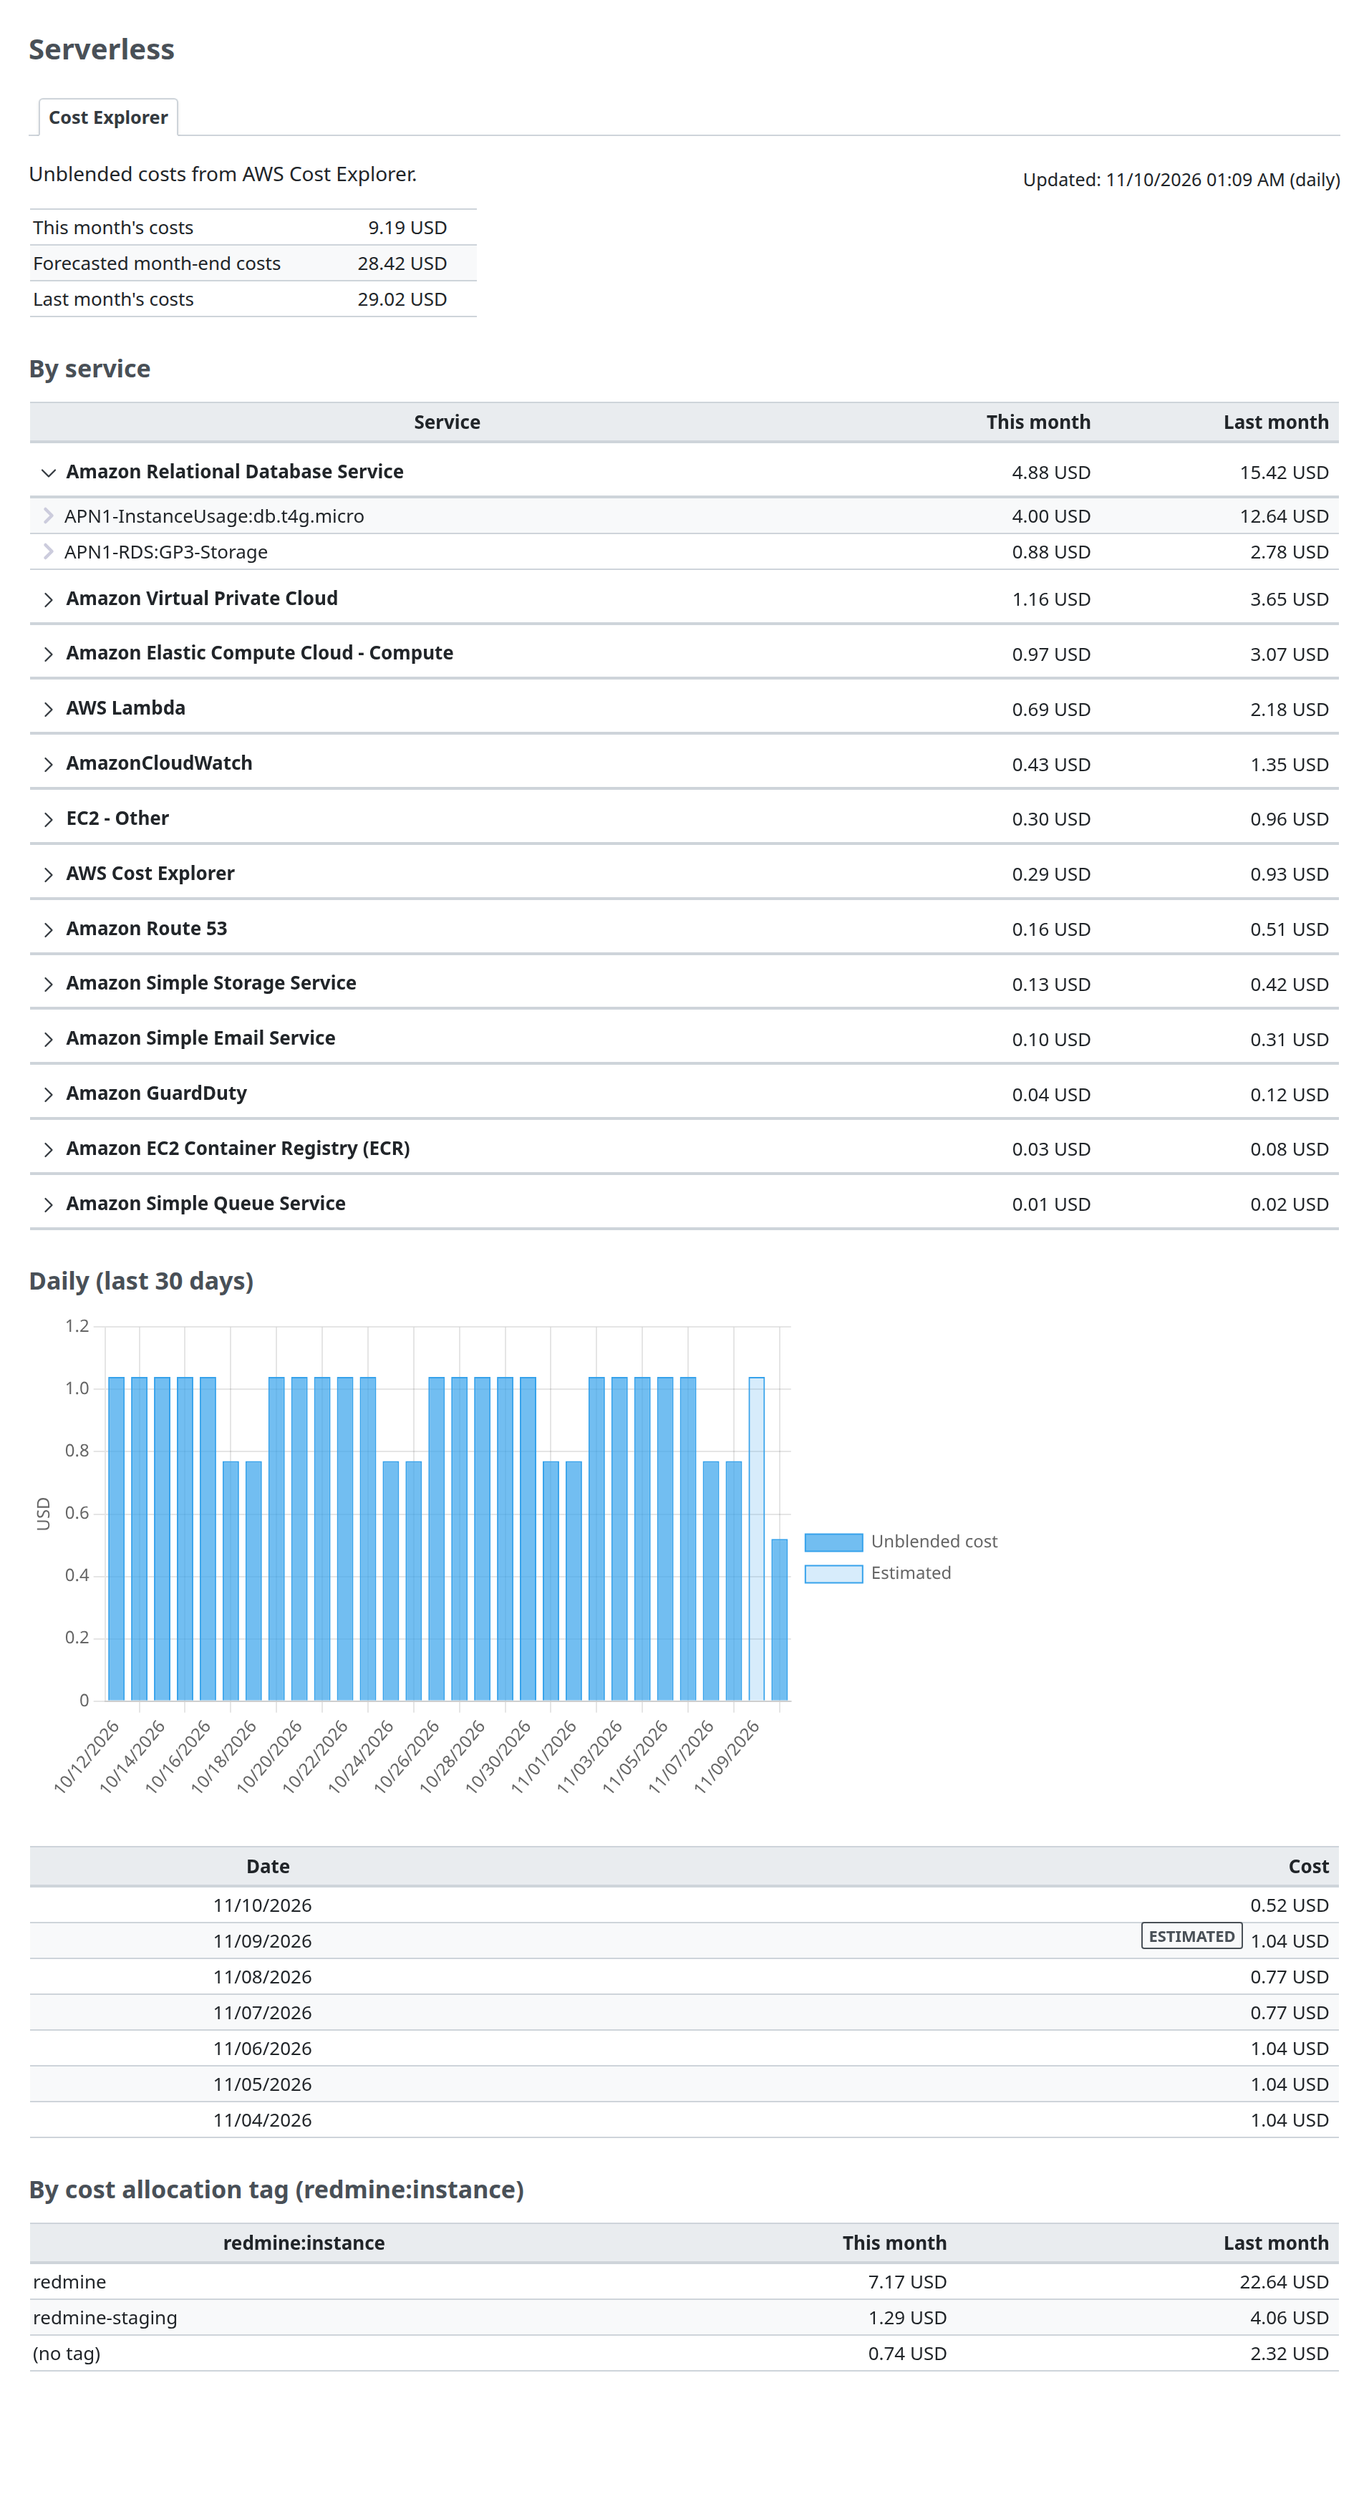
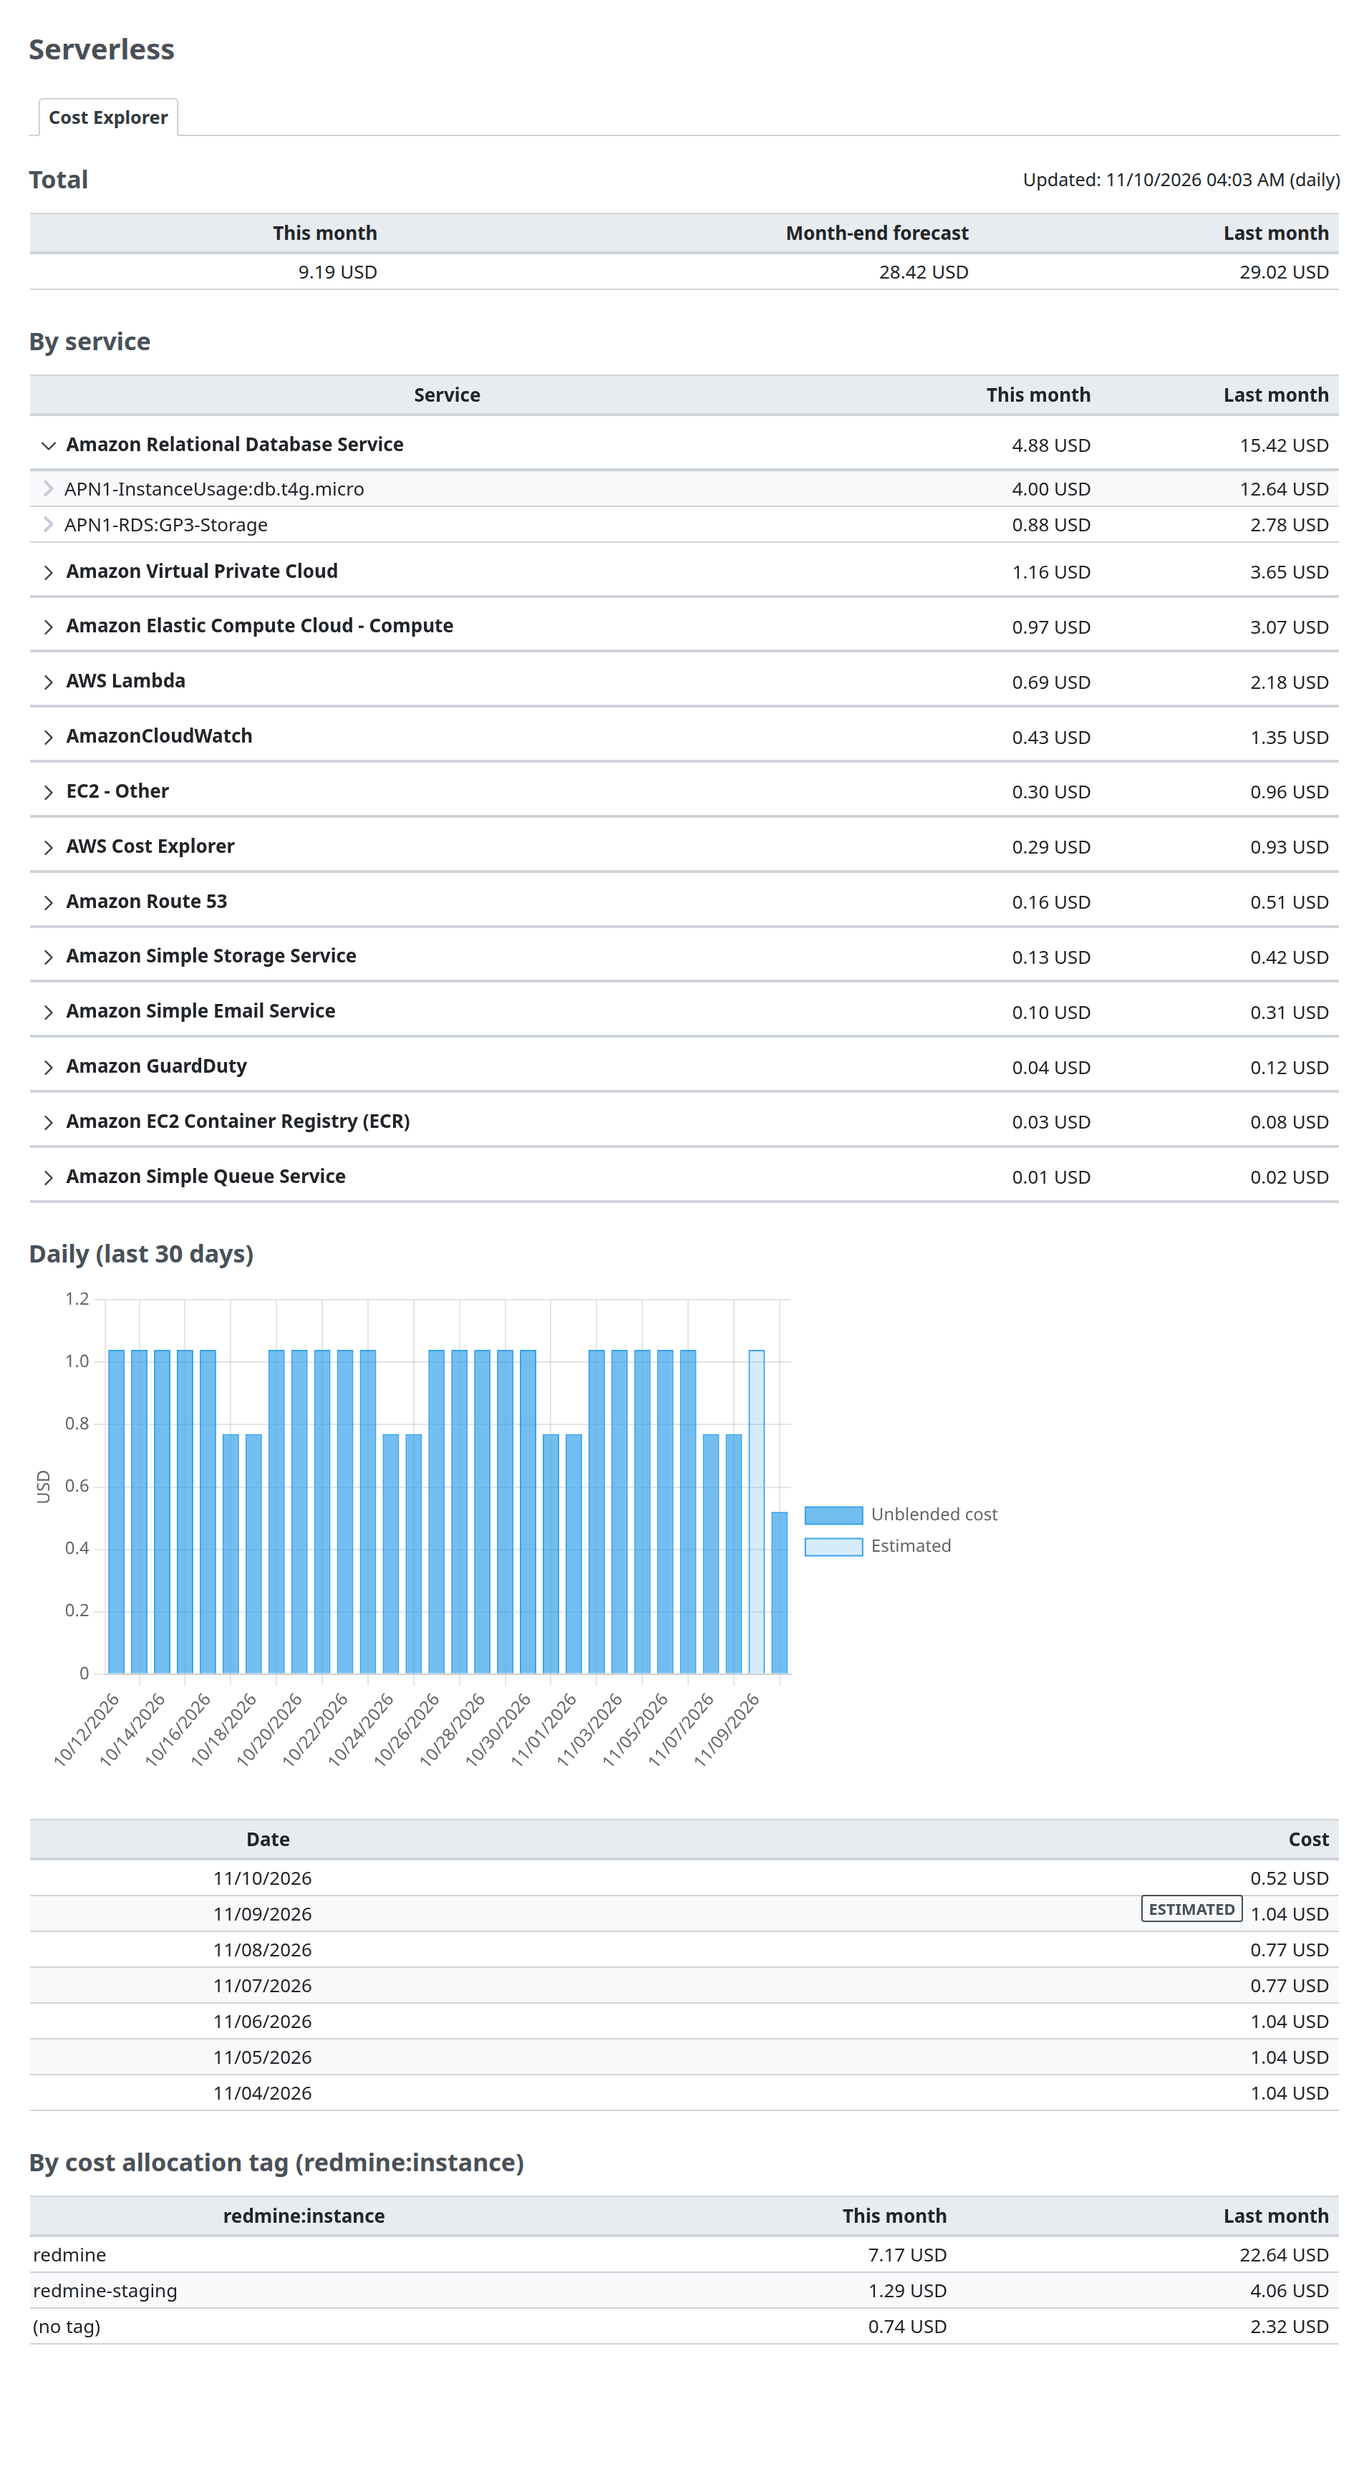
Show the totals as a Total section like the others
The tab starts with a "Total" heading (Redmine's label_total) and a list with the columns This month, Month-end forecast and Last month, instead of a sentence and a label/value table. The estimated badge sits before last month's amount and "No forecast" in the forecast's cell. The docs say that the amounts are unblended costs; the unused strings are removed.

diff --git a/assets/stylesheets/serverless_costexplorer.css b/assets/stylesheets/serverless_costexplorer.css
@@ -1,13 +1,12 @@
 /* Redmine right-aligns only hour columns (td.spent_hours, #time-report td.hours);
-   the amounts of the Cost Explorer tab line up on the right the same way. The
-   totals are a short table, as wide as its content, like a report's totals. */
+   the amounts of the Cost Explorer tab line up on the right the same way. */
 #serverless-costexplorer-summary td.amount,
+#serverless-costexplorer-summary th.amount,
 #serverless-costexplorer-services td.amount,
 #serverless-costexplorer-daily td.amount,
 #serverless-costexplorer-tags td.amount,
 #serverless-costexplorer-services th.amount,
 #serverless-costexplorer-daily th.amount,
 #serverless-costexplorer-tags th.amount { text-align: right; padding-inline-end: 0.5em; }
-#serverless-costexplorer-summary { inline-size: auto; min-inline-size: 24em; }
 /* The daily chart, as wide as Redmine's charts (.repository-graph, .issue-report-graph). */
 .serverless-costexplorer-graph { inline-size: 75%; margin-block-end: 2em; }

diff --git a/test/functional/serverless_costexplorer_controller_test.rb b/test/functional/serverless_costexplorer_controller_test.rb
@@ -18,13 +18,6 @@ module RedmineServerlessCostexplorer
       with_settings(date_format: '%Y-%m-%d') { with_enabled { with_fetcher_client(client) { get :index } } }
 
       assert_response :success
-      # No heading first: the description line and the update time on the right.
-      assert_equal 'By service', css_select('#content h3').first.text
-      assert_select '#serverless-costexplorer-summary tr', text: /This month's costs\s*7\.51 USD/
-      assert_select '#serverless-costexplorer-summary td.name', text: "This month's costs"
-      assert_select '#serverless-costexplorer-summary td.amount', text: '7.51 USD'
-      assert_select '#serverless-costexplorer-summary tr', text: /Forecasted month-end costs\s*22\.20 USD/
-      assert_select '#serverless-costexplorer-summary tr', text: /Last month's costs\s*22\.48 USD/
       # This month is always estimated, and the last month is final.
       assert_select '#serverless-costexplorer-summary span.badge', 0
       assert_select '#serverless-costexplorer-daily > tbody > tr', 30
@@ -35,11 +28,23 @@ module RedmineServerlessCostexplorer
       assert_select 'div[data-serverless-costexplorer--daily-title-value]', 0
       assert_select 'script[type=module][src*="serverless_costexplorer"]'
       assert_select '#serverless-costexplorer-tags', 0
-      assert_select 'p', text: 'Unblended costs from AWS Cost Explorer.'
+      assert_not_includes response.body, 'Unblended costs from AWS Cost Explorer.'
       assert_select '#serverless-costexplorer-updated', text: /Updated: .* \(daily\)/
       assert_select 'input[type=submit][value=Refresh]', 0
       # The page never calls Cost Explorer.
       assert_empty client.api_requests
+    end
+
+    def test_the_totals
+      fetched_snapshot
+      with_enabled { get :index }
+
+      # The totals are a section like the others: a heading, then a list with a header row.
+      assert_equal 'Total', css_select('#content h3').first.text
+      assert_equal(['This month', 'Month-end forecast', 'Last month'],
+                   css_select('#serverless-costexplorer-summary thead th.amount').map { |th| th.text.strip })
+      assert_equal(['7.51 USD', '22.20 USD', '22.48 USD'],
+                   css_select('#serverless-costexplorer-summary tbody td.amount').map { |td| td.text.strip })
     end
 
     # Each service is a collapsed group of its usage types.
@@ -63,8 +68,9 @@ module RedmineServerlessCostexplorer
       with_enabled { get :index }
 
       assert_select '#serverless-costexplorer-summary span.badge', 1
-      assert_select '#serverless-costexplorer-summary tr', text: /Last month's costs\s*22\.48 USD\s*Estimated/
-      assert_select '#serverless-costexplorer-summary tr span.badge.badge-status-locked', text: 'Estimated'
+      # In the amount's cell, before the amount.
+      assert_select '#serverless-costexplorer-summary td.amount', text: /\AEstimated\s*22\.48 USD\z/
+      assert_select '#serverless-costexplorer-summary td.amount span.badge.badge-status-locked', text: 'Estimated'
     end
 
     def test_the_daily_chart
@@ -122,8 +128,8 @@ module RedmineServerlessCostexplorer
       snapshot.update!(data: snapshot.data.merge('forecast' => { 'error' => 'DataUnavailableException: x' }))
       with_enabled { get :index }
 
-      assert_select '#serverless-costexplorer-summary tr',
-                    text: /No forecast \(DataUnavailableException\)/
+      assert_select '#serverless-costexplorer-summary td.amount',
+                    text: 'No forecast (DataUnavailableException)'
     end
 
     def test_disabled

diff --git a/docs/README.md b/docs/README.md
@@ -13,21 +13,21 @@ Each feature has a condition that enables it. Without `REDMINE_COSTEXPLORER_ENAB
 
 | Feature | Contents | Enabled when | Page |
 | --- | --- | --- | --- |
-| The "Cost Explorer" tab | The costs of the AWS account: this month's costs, the forecasted month-end costs, last month's costs, by service (with usage types), and daily for the last 30 days (chart and table) | `REDMINE_COSTEXPLORER_ENABLED=true`; administrators | [What the tab shows](#what-the-tab-shows) |
+| The "Cost Explorer" tab | The costs of the AWS account: the total (this month, month-end forecast, last month), by service (with usage types), and daily for the last 30 days (chart and table) | `REDMINE_COSTEXPLORER_ENABLED=true`; administrators | [What the tab shows](#what-the-tab-shows) |
 | Daily fetch | The rake task `redmine_serverless_costexplorer:refresh` fetches the costs once a day and keeps them in the database | Same as above; run daily by a schedule | [setup.md](setup.md#schedule) |
 | Costs by tag | The costs of this month and the previous month by the values of a cost allocation tag (normally `redmine:instance`) | `REDMINE_COSTEXPLORER_TAG_KEY` is set (off by default) | [Costs by tag](#costs-by-tag-optional) |
 
 ## What the tab shows
 
-The costs of the whole account. The tab has no heading first: it starts with a description line and, on the right, "Updated: `<time>` (daily)".
+The costs of the whole account. All amounts are AWS Cost Explorer's unblended costs (`UnblendedCost`). The top right shows "Updated: `<time>` (daily)", and each section is a heading and a list, as in the rest of the tab. The first section is "Total", a list with the columns "This month", "Month-end forecast" and "Last month".
 
-![The Cost Explorer tab: this month's costs, the forecasted month-end costs, last month's costs, costs by service (with usage types to expand), the daily chart and table, and by the cost allocation tag (redmine:instance)](./images/costexplorer.png)
+![The Cost Explorer tab: the total (this month, month-end forecast, last month), costs by service (with usage types to expand), the daily chart and table, and by the cost allocation tag (redmine:instance)](./images/costexplorer.png)
 
 | Section | Contents | Cost Explorer request |
 | --- | --- | --- |
-| This month's costs | The month's costs until today, including today's costs so far | `GetCostAndUsage`, monthly, by service and usage type, from the first day of the previous month to tomorrow (the total) |
-| Forecasted month-end costs | The costs until yesterday plus Cost Explorer's forecast from today to the end of the month. When Cost Explorer has no forecast (for example, in an account with too little history), "No forecast (`<reason>`)" | `GetCostForecast`, from today to the first day of next month |
-| Last month's costs | The previous month's costs, with an "Estimated" badge while Cost Explorer has not finalized them | Same request as "This month's costs" |
+| Total: "This month" | The month's costs until today, including today's costs so far | `GetCostAndUsage`, monthly, by service and usage type, from the first day of the previous month to tomorrow (the total) |
+| Total: "Month-end forecast" | The costs until yesterday plus Cost Explorer's forecast from today to the end of the month. When Cost Explorer has no forecast (for example, in an account with too little history), "No forecast (`<reason>`)" in its cell | `GetCostForecast`, from today to the first day of next month |
+| Total: "Last month" | The previous month's costs, with an "Estimated" badge before the amount while Cost Explorer has not finalized them | Same request as "This month" |
 | By service | Each service's costs this month and last month, the largest this month first. Each service row expands to its usage types (`USAGE_TYPE`); the rows start collapsed and open with the arrow on the left, like Redmine's grouped lists (also with the keyboard) | Same request (`GroupBy` `SERVICE` and `USAGE_TYPE`) |
 | Daily (last 30 days) | A bar chart of the daily unblended costs, and a table of the same values under it. Past days that Cost Explorer has not finalized have an "Estimated" badge (a lighter bar in the chart) | `GetCostAndUsage`, daily, from 29 days ago (or the first day of the month, if earlier) to tomorrow |
 | By cost allocation tag (`<tag>`) | Only with `REDMINE_COSTEXPLORER_TAG_KEY`: each tag value's costs this month and last month, with "(no tag)" for the costs without it | `GetCostAndUsage`, monthly, by the tag |
@@ -49,8 +49,7 @@ The screen uses the Japanese terms of the Cost Explorer documentation (checked o
 | --- | --- | --- |
 | Unblended cost / 非ブレンドコスト | `UnblendedCost` | https://docs.aws.amazon.com/ja_jp/cost-management/latest/userguide/ce-exploring-data.html |
 | Daily unblended costs / 日別の非ブレンドコスト | Same | Same |
-| Forecasted month-end costs / 月末の予測コスト | Same (「月末の予測コスト」) | Same |
-| This month's costs / 今月のコスト | A shorter form of 「今月の初めから今日までのコスト」 on the same page | Same |
+| Month-end forecast / 月末の予測 | A shorter form of 「月末の予測コスト」 on the same page | Same |
 | Estimated / 推定 | 「過去 1 か月の推定コスト」 on the same page | Same |
 | Service, Usage types, Cost allocation tag / サービス、使用タイプ、コスト配分タグ | `SERVICE`, `USAGE_TYPE`, tags | https://docs.aws.amazon.com/ja_jp/cost-management/latest/userguide/ce-filtering.html |
 | (no tag) / (タグなし) | Costs without the tag | The plugin's own term; to recheck in the console |

diff --git a/README.md b/README.md
@@ -5,7 +5,7 @@
 [![License](https://img.shields.io/github/license/redmine-kit/redmine_serverless_costexplorer?label=License)](LICENSE)
[1 lines of base64/hex data omitted]
 
-A Redmine plugin that shows the costs of the AWS account in Redmine's administration, from AWS Cost Explorer: this month's costs, the forecasted month-end costs, last month's costs, the costs by service (with usage types), and the daily costs of the last 30 days (chart and table). Optionally, it splits the costs by a cost allocation tag, for an account that holds several Redmine instances. The costs are fetched once a day and kept in the database; viewing the page makes no requests to AWS. [Serverless](https://github.com/redmine-kit/serverless)'s image does not include it; its templates can set it up, off by default, for an image that adds the plugin (a derived image).
+A Redmine plugin that shows the costs of the AWS account in Redmine's administration, from AWS Cost Explorer: the total (this month, month-end forecast, last month), the costs by service (with usage types), and the daily costs of the last 30 days (chart and table). Optionally, it splits the costs by a cost allocation tag, for an account that holds several Redmine instances. The costs are fetched once a day and kept in the database; viewing the page makes no requests to AWS. [Serverless](https://github.com/redmine-kit/serverless)'s image does not include it; its templates can set it up, off by default, for an image that adds the plugin (a derived image).
 
 [日本語](README.ja.md)
 

diff --git a/docs/ja/iam.md b/docs/ja/iam.md
@@ -9,7 +9,7 @@
 | 操作 | 対象 | 理由 |
 | --- | --- | --- |
 | `ce:GetCostAndUsage` | `*` | サービス別、日別、`REDMINE_COSTEXPLORER_TAG_KEY` があればタグ別の費用 |
-| `ce:GetCostForecast` | `*` | 月末の予測コスト |
+| `ce:GetCostForecast` | `*` | 月末の予測 |
 
 この権限が要るのは、rake のタスク `redmine_serverless_costexplorer:refresh` を実行するプロセスのロールだけです(Serverless では `redmine-task`)。web の要求と Redmine のジョブは Cost Explorer を呼びません。どちらの操作も読むだけです。費用はアカウント全体のもの(メンバーアカウントでは、そのアカウントのもの)で、タグは画面の表示を分けるだけです。
 

diff --git a/docs/iam.md b/docs/iam.md
@@ -7,7 +7,7 @@ The plugin's own calls to AWS, by the role of the process. Lambda's own permissi
 | Action | Resource | Why |
 | --- | --- | --- |
 | `ce:GetCostAndUsage` | `*` | The costs by service, by day and, with `REDMINE_COSTEXPLORER_TAG_KEY`, by the tag |
-| `ce:GetCostForecast` | `*` | Forecasted month-end costs |
+| `ce:GetCostForecast` | `*` | The month-end forecast |
 
 Only the role of the process that runs the rake task `redmine_serverless_costexplorer:refresh` needs these permissions (in Serverless, `redmine-task`). Web requests and Redmine's jobs never call Cost Explorer. Both actions only read. The costs are those of the whole account (or, in a member account, of that account); the tag only splits what the page shows.
 
